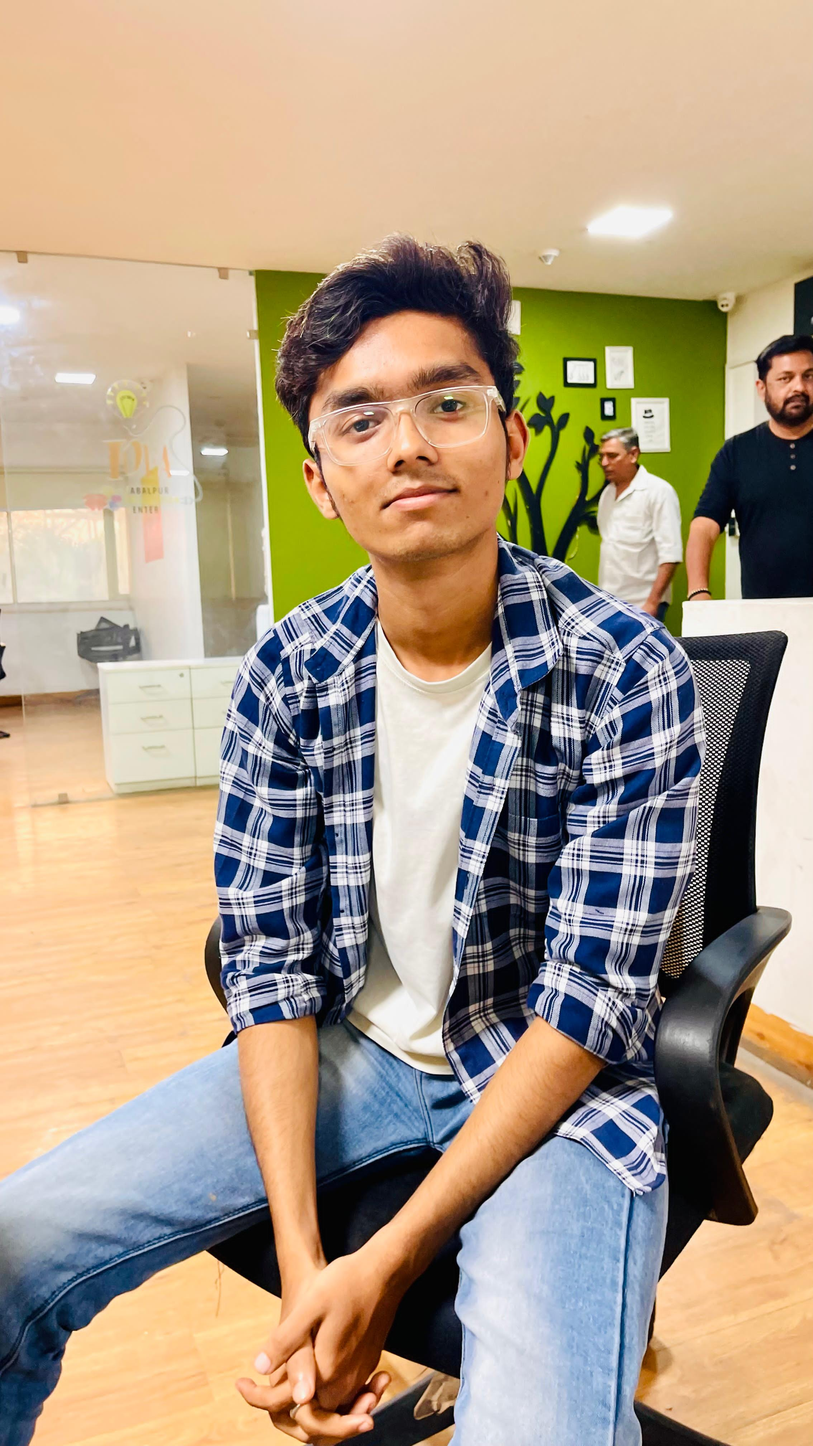
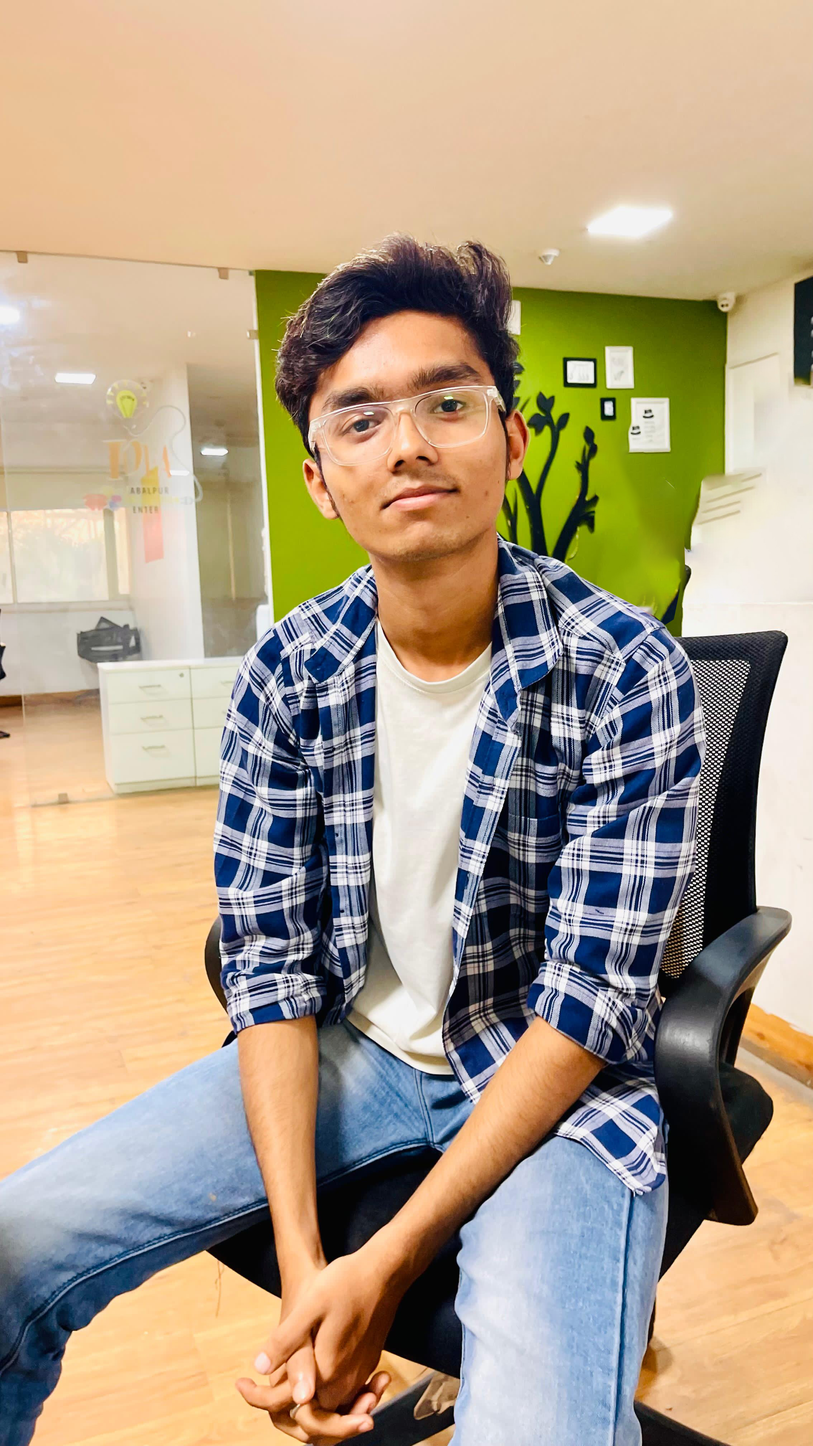
Added photos to cloud storage

Changed region(s): [[0.7099, 0.2188, 1.0, 0.4375]]

diff --git a/client/src/pages/AboutPage.jsx b/client/src/pages/AboutPage.jsx
@@ -74,7 +74,7 @@ export default function AboutPage() {
     },
     {
       name: "Mayank",
-      img: "",
+      img: "https://res.cloudinary.com/dgkv2gft7/image/upload/v1743692937/mayank-1_xkhqhm.jpg",
       designation: "Graphic Designing Intern",
     },
     {
